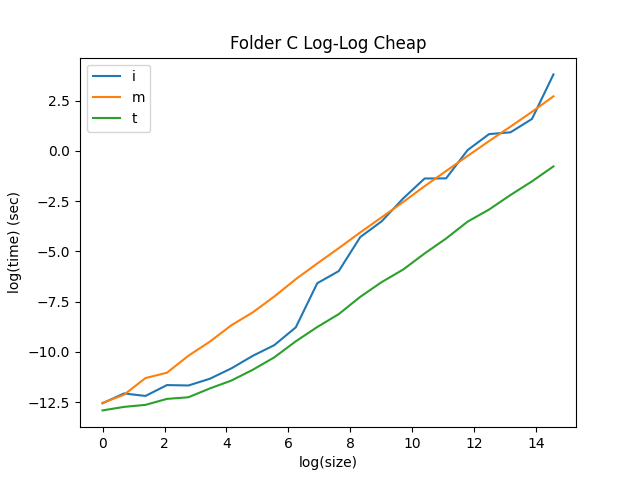
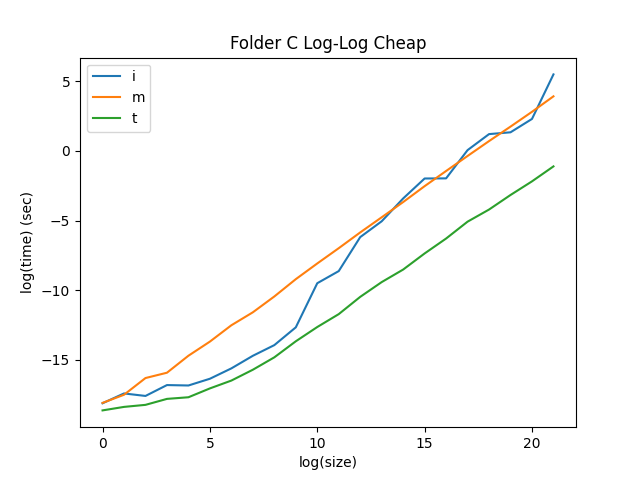
updated log to base 2

diff --git a/readSteveRuns.py b/readSteveRuns.py
@@ -119,10 +119,10 @@ def dummyFunction(s):
     return s
 
 def logFunctionS(s):
-    return math.log(s)
+    return math.log(s, 2)
 
 def logFunctionT(s):
-    return math.log(s + 1)
+    return math.log(s + 1, 2)
 
 # predict for n^2
 def predictNSq(i, j, time):
@@ -177,6 +177,7 @@ def predictionPlot(folder, cost, sortType, plotTitle, predictFunction, f, f2):
 # displayPlot('A', 'e', ['i', 'm', 't'], 'Folder A Log-Log Expensive', logFunctionS, logFunctionS, False)
 # displayPlot('B', 'e', ['i', 'm', 't'], 'Folder B Log-Log Expensive', logFunctionS, logFunctionS, False)
 # displayPlot('C', 'e', ['i', 'm', 't'], 'Folder C Log-Log Expensive', logFunctionS, logFunctionS, False)
+displayPlot('C', 'e', ['i', 'm', 't'], 'Folder C Log-Log Expensive PlotTestLog', logFunctionS, logFunctionS, True)
 
 
 # displayPlot('A', 'c', ['i'], 'Folder A Cheap Insertion', dummyFunction, dummyFunction, True)
@@ -200,24 +201,18 @@ def predictionPlot(folder, cost, sortType, plotTitle, predictFunction, f, f2):
 # displayPlot('C', 'e', ['t'], 'Folder C Expensive Tim', dummyFunction, dummyFunction, True)
 
 
-predictionPlot('A', 'c', 'i', 'Prediction A Cheap Insertion', predictNSq, logFunctionS, logFunctionS)
-predictionPlot('B', 'c', 'i', 'Prediction B Cheap Insertion', predictNSq, logFunctionS, logFunctionS)
-predictionPlot('C', 'c', 'i', 'Prediction C Cheap Insertion', predictNSq, logFunctionS, logFunctionS)
-predictionPlot('A', 'c', 'm', 'Prediction A Cheap Merge', predictNLogN, logFunctionS, logFunctionS)
-predictionPlot('B', 'c', 'm', 'Prediction B Cheap Merge', predictNLogN, logFunctionS, logFunctionS)
-predictionPlot('C', 'c', 'm', 'Prediction C Cheap Merge', predictNLogN, logFunctionS, logFunctionS)
-predictionPlot('A', 'c', 't', 'Prediction A Cheap Tim', predictNLogN, logFunctionS, logFunctionS)
-predictionPlot('B', 'c', 't', 'Prediction B Cheap Tim', predictNLogN, logFunctionS, logFunctionS)
-predictionPlot('C', 'c', 't', 'Prediction C Cheap Tim', predictNLogN, logFunctionS, logFunctionS)
-predictionPlot('A', 'e', 'i', 'Prediction A Expensive Insertion', predictNSq, logFunctionS, logFunctionS)
-predictionPlot('B', 'e', 'i', 'Prediction B Expensive Insertion', predictNSq, logFunctionS, logFunctionS)
-predictionPlot('C', 'e', 'i', 'Prediction C Expensive Insertion', predictNSq, logFunctionS, logFunctionS)
-predictionPlot('A', 'e', 'm', 'Prediction A Expensive Merge', predictNLogN, logFunctionS, logFunctionS)
-predictionPlot('B', 'e', 'm', 'Prediction B Expensive Merge', predictNLogN, logFunctionS, logFunctionS)
-predictionPlot('C', 'e', 'm', 'Prediction C Expensive Merge', predictNLogN, logFunctionS, logFunctionS)
-
-
-#predictionPlot('A', 'c', 'i', 'A Cheap Insertion Prediction', predictNSq, logFunctionS, logFunctionS)
-#predictionPlot('A', 'c', 'm', 'A Cheap Merge Prediction', predictNLogN, logFunctionS, logFunctionS)
-#predictionPlot('A', 'e', 'i', 'A Expensive Insertion Prediction', predictNSq, logFunctionS, logFunctionS)
-#predictionPlot('A', 'e', 'm', 'A Expensive Merge Prediction', predictNLogN, logFunctionS, logFunctionS)
+# predictionPlot('A', 'c', 'i', 'Prediction A Cheap Insertion', predictNSq, logFunctionS, logFunctionS)
+# predictionPlot('B', 'c', 'i', 'Prediction B Cheap Insertion', predictNSq, logFunctionS, logFunctionS)
+# predictionPlot('C', 'c', 'i', 'Prediction C Cheap Insertion', predictNSq, logFunctionS, logFunctionS)
+# predictionPlot('A', 'c', 'm', 'Prediction A Cheap Merge', predictNLogN, logFunctionS, logFunctionS)
+# predictionPlot('B', 'c', 'm', 'Prediction B Cheap Merge', predictNLogN, logFunctionS, logFunctionS)
+# predictionPlot('C', 'c', 'm', 'Prediction C Cheap Merge', predictNLogN, logFunctionS, logFunctionS)
+# predictionPlot('A', 'c', 't', 'Prediction A Cheap Tim', predictNLogN, logFunctionS, logFunctionS)
+# predictionPlot('B', 'c', 't', 'Prediction B Cheap Tim', predictNLogN, logFunctionS, logFunctionS)
+# predictionPlot('C', 'c', 't', 'Prediction C Cheap Tim', predictNLogN, logFunctionS, logFunctionS)
+# predictionPlot('A', 'e', 'i', 'Prediction A Expensive Insertion', predictNSq, logFunctionS, logFunctionS)
+# predictionPlot('B', 'e', 'i', 'Prediction B Expensive Insertion', predictNSq, logFunctionS, logFunctionS)
+# predictionPlot('C', 'e', 'i', 'Prediction C Expensive Insertion', predictNSq, logFunctionS, logFunctionS)
+# predictionPlot('A', 'e', 'm', 'Prediction A Expensive Merge', predictNLogN, logFunctionS, logFunctionS)
+# predictionPlot('B', 'e', 'm', 'Prediction B Expensive Merge', predictNLogN, logFunctionS, logFunctionS)
+# predictionPlot('C', 'e', 'm', 'Prediction C Expensive Merge', predictNLogN, logFunctionS, logFunctionS)

diff --git a/ForGrader/readSteveRuns.py b/ForGrader/readSteveRuns.py
@@ -119,10 +119,10 @@ def dummyFunction(s):
     return s
 
 def logFunctionS(s):
-    return math.log(s)
+    return math.log(s, 2)
 
 def logFunctionT(s):
-    return math.log(s + 1)
+    return math.log(s + 1, 2)
 
 # predict for n^2
 def predictNSq(i, j, time):
